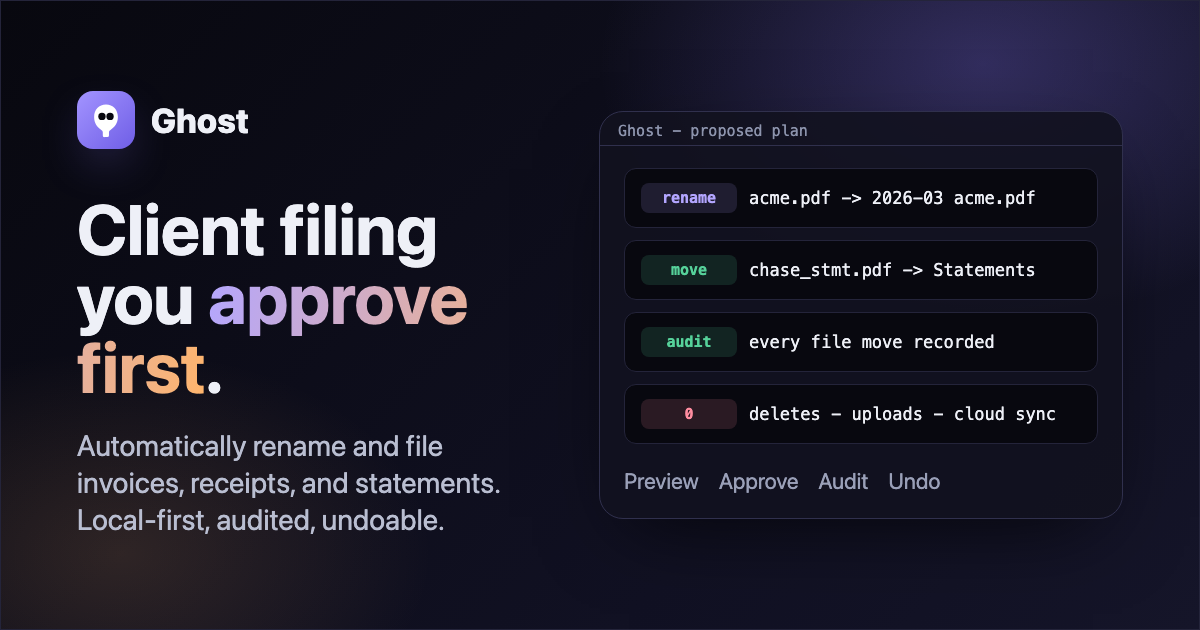
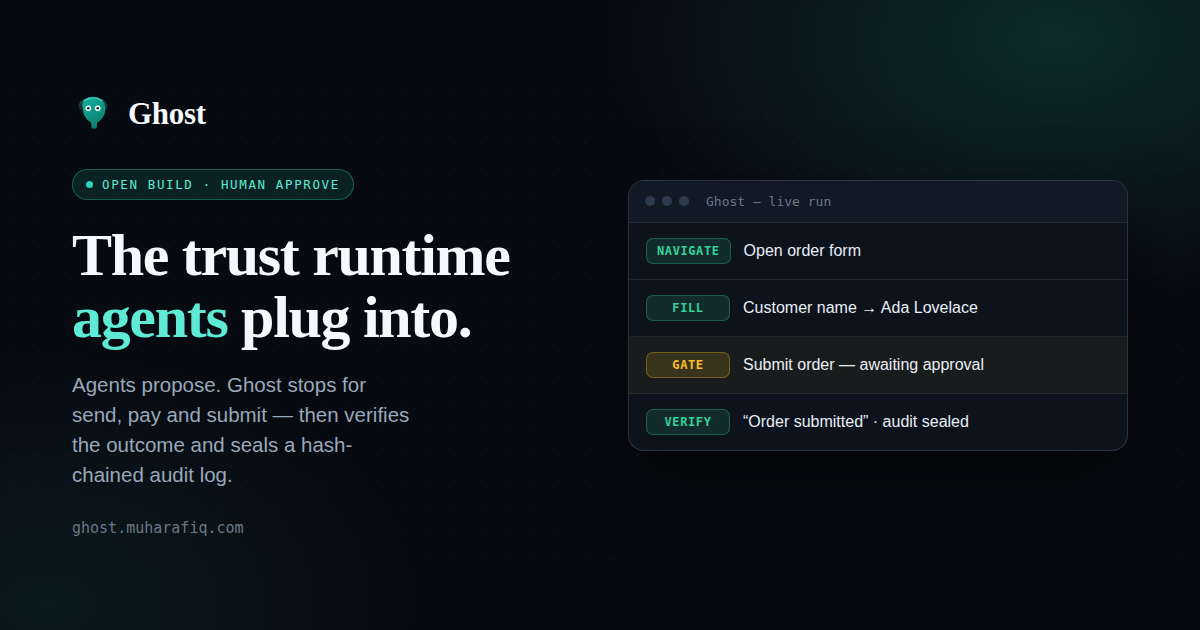
site: fix broken og:image path and replace stale card art
Two separate defects, both only visible outside the page itself.

The path was wrong. `vercel.json` sets `outputDirectory: "public"` with no
rewrites, so `/og.png` has always been a 404 on the live site — the file is
served at `/assets/og.png`. Every link preview since the domain went up has
fallen back to no image. Both `og:image` and `twitter:image` now point at the
real path.

The art was stale. The existing card advertised the abandoned local-first
desktop Organizer ("Client filing you approve first", "Local-first, audited,
undoable"), so fixing only the path would have started showing the wrong
product on every share. The replacement states the current positioning — an
approval-gated trust runtime agents plug into — and mirrors a real run
stopping at its gate, using the tokens from `public/styles.css` so the card
cannot drift from the page it represents.

Copy is held to rule 10: it claims approval on sensitive steps, verification,
and a hash-chained audit log, all of which ship. It does not say tamper-proof.

Claude-Session: https://claude.ai/code/session_018nFfipoEfgRfFbFUmQCjvF

diff --git a/public/index.html b/public/index.html
@@ -21,7 +21,7 @@
       content="Agents propose. Ghost runs with human approval on sensitive steps, verification, and a hash-chained audit log. Open build — not a landing-page mock."
     />
     <meta property="og:url" content="https://ghost.muharafiq.com/" />
-    <meta property="og:image" content="https://ghost.muharafiq.com/og.png" />
+    <meta property="og:image" content="https://ghost.muharafiq.com/assets/og.png" />
     <meta property="og:image:width" content="1200" />
     <meta property="og:image:height" content="630" />
     <meta name="twitter:card" content="summary_large_image" />
@@ -30,7 +30,7 @@
       name="twitter:description"
       content="Agent proposes → Ghost approves/executes/verifies/audits. Human gate on sensitive steps. Open build."
     />
-    <meta name="twitter:image" content="https://ghost.muharafiq.com/og.png" />
+    <meta name="twitter:image" content="https://ghost.muharafiq.com/assets/og.png" />
     <meta
       name="keywords"
       content="AI operator, workflow automation, approval-gated automation, audit log, Playwright, Next.js, portfolio project"
